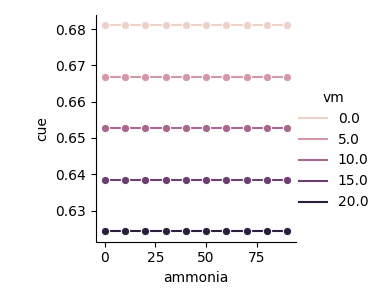
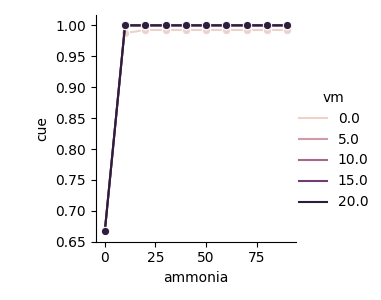
Constrain oxygen and glucose, actually update the medium 🤦♀

diff --git a/ecoli_full/basic_fba/run_cobrapy.py b/ecoli_full/basic_fba/run_cobrapy.py
@@ -32,9 +32,17 @@ c_ex_rxns = atomExchangeMetabolite(model)
 data = []
 # Loop through the carbon concentrations
 for ammonia in range(0, 100, 10): # What range should I use?
-    # Update glucose in the medium
+    # Make a new medium based on the medium in the model file
     medium = model.medium
+    # Constrain the oxygen and the glucose to something reasonable
+    medium['EX_o2_e'] = 6
+    medium['EX_glc__D_e'] = 10
+    # Remove B12 from the medium
+    medium['EX_cbl1_e'] = 0 # TODO: Find the minimal value to use
+    # Upate the ammonia in the medium
     medium['EX_nh4_e'] = ammonia
+    # Then set the medium
+    model.medium = medium
 
     # Check that there are no other media components with nitrogen
     # for r in medium:
@@ -71,9 +79,18 @@ nitrogen_results = pd.DataFrame(data)
 data = []
 # Loop through the carbon concentrations
 for glc in range(10, 21):
-    # Update glucose in the medium
+    # Make a new medium based on the medium in the model file
     medium = model.medium
+    # Constrain the oxygen to something reasonable
+    medium['EX_o2_e'] = 6
+    # Do not contrain the ammonia
+    medium['EX_nh4_e'] = 1000
+    # Remove B12 from the medium
+    medium['EX_cbl1_e'] = 0 # TODO: Find the minimal value to use
+    # Upate the glucose in the medium
     medium['EX_glc__D_e'] = glc
+    # Then set the medium
+    model.medium = medium
 
     # Check that the export reaction bounds are 0 for all carbon sources
     # except glucose
@@ -105,6 +122,18 @@ carbon_results = pd.DataFrame(data)
 # Make a dataframe to store the results
 data = []
 for vm in np.linspace(0, 20, 5):
+    # Make a new medium based on the medium in the model file
+    medium = model.medium
+    # Constrain the oxygen and the glucose to something reasonable
+    medium['EX_o2_e'] = 6
+    medium['EX_glc__D_e'] = 10
+    # Remove B12 from the medium
+    medium['EX_cbl1_e'] = 0 # TODO: Find the minimal value to use
+    # Do not constain the ammonia in the medium
+    medium['EX_nh4_e'] = 1000
+    # Then set the medium
+    model.medium = medium
+
     # Update maintainance flux
     model.reactions.ATPM.lower_bound = vm
 
@@ -127,5 +156,5 @@ vm_results = pd.DataFrame(data)
 # Save the results
 ########################################################################
 results = [nitrogen_results, carbon_results, vm_results]
-with open('ecoli_full_model/basic_fba/results.pkl', 'wb') as f:
+with open('ecoli_full/basic_fba/results.pkl', 'wb') as f:
     pickle.dump(results, f)

diff --git a/ecoli_full/basic_fba/plot_results.py b/ecoli_full/basic_fba/plot_results.py
@@ -5,14 +5,14 @@ import pickle
 
 # Set a folder for the plots
 # Assuming you are running from the root of the repository
-output_folder = 'ecoli_full_model/basic_fba/plots'
+output_folder = 'ecoli_full/basic_fba/plots'
 
 # Check if the folder exists, if not, create it
 if not os.path.exists(output_folder):
     os.makedirs(output_folder)
 
 # Load the results
-with open('ecoli_full_model/basic_fba/results.pkl', 'rb') as f:
+with open('ecoli_full/basic_fba/results.pkl', 'rb') as f:
     results = pickle.load(f)
 
 # Get the dataframes
